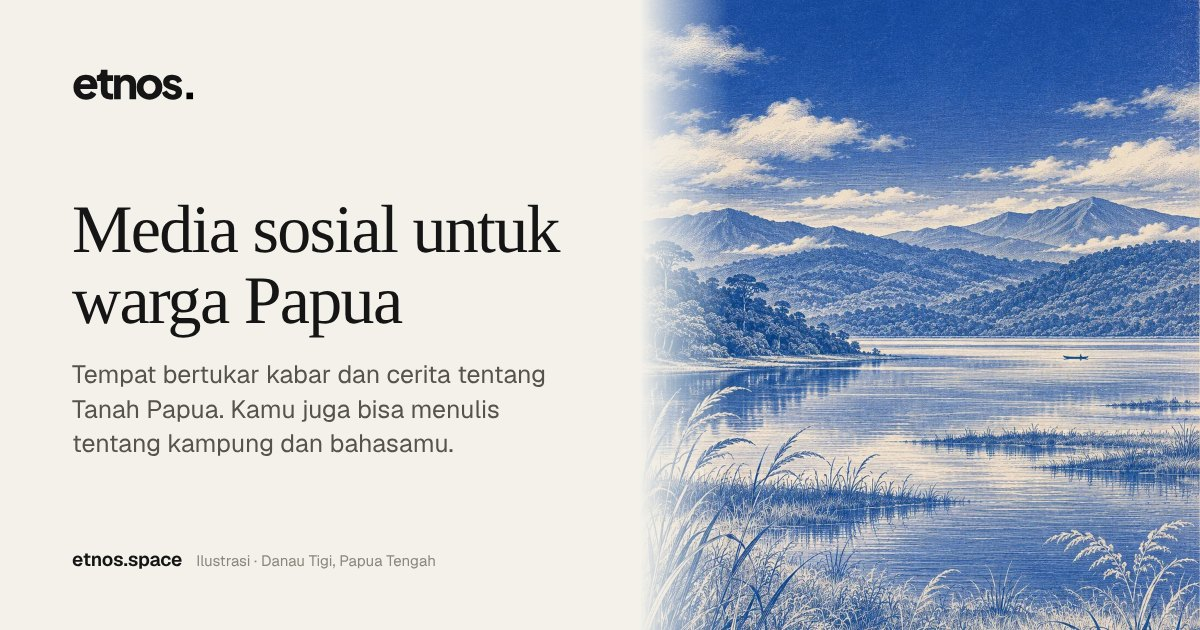
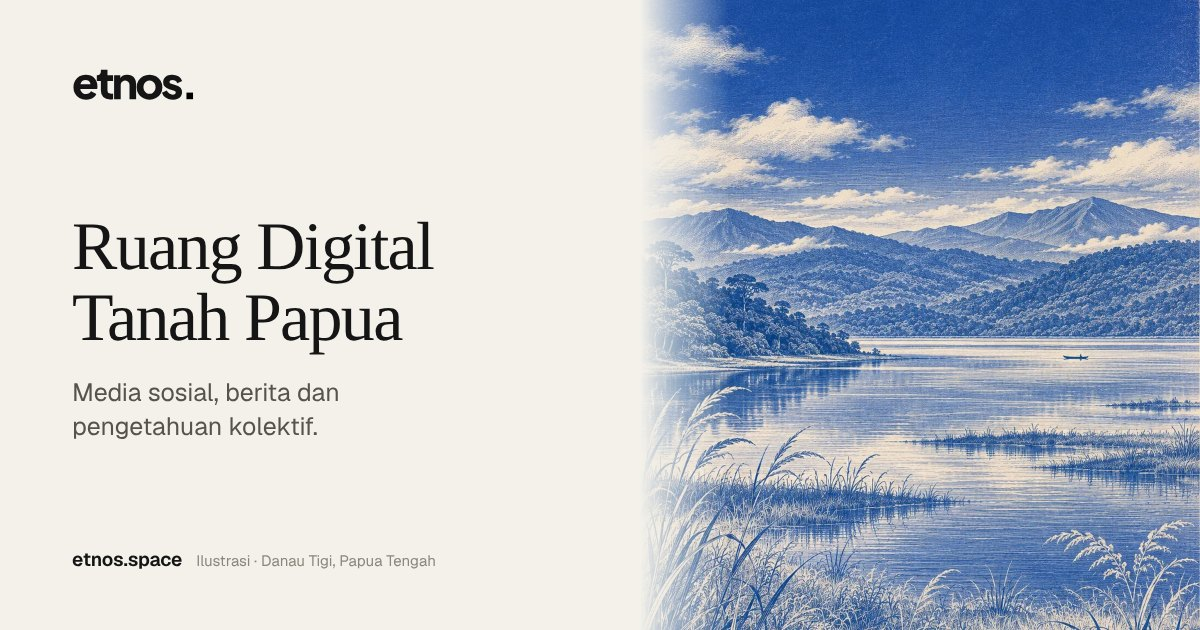
Home preview card: Ruang Digital Tanah Papua
Claude-Session: https://claude.ai/code/session_015shwuDdzuYH8FL2aSLKgWC

Changed region(s): [[0.0617, 0.3317, 0.4625, 0.7238]]

diff --git a/src/share.ts b/src/share.ts
@@ -1,12 +1,12 @@
 /** Public sharing projection. Callers provide anonymous, bounded reads only. */
 export type Share = {title:string;description:string;path:string;image:string;imageAlt:string;type:'website'|'article';index:boolean;article?:{title:string;text:string;citations:string[];updated:number;reviewed:boolean}}
-const description='Tempat bertukar kabar dan cerita tentang Tanah Papua. Kamu juga bisa menulis tentang kampung dan bahasamu.'
+const description='Media sosial, berita dan pengetahuan kolektif.'
 export const defaultShare=():Share=>({title:'ETNOS',description,path:'/',image:'/share/default.jpg',imageAlt:'ETNOS. '+description,type:'website',index:false})
 export function previewText(value:unknown,max=240){return String(value??'').replace(/!\[[^\]]*\]\([^)]*\)/g,' ').replace(/\[([^\]]+)\]\([^)]*\)/g,'$1').replace(/<[^>]*>/g,' ').replace(/[#*_`~>|]/g,'').replace(/[\u0000-\u001f\u007f]/g,' ').replace(/\s+/g,' ').trim().slice(0,max)}
 const uuid=/^[a-f0-9-]{36}$/
 type Read=(path:string)=>Promise<any>
 const pages:Record<string,[string,string]>={
- '/':['ETNOS · Media sosial untuk warga Papua',description],'/explore':['Jelajah ETNOS','Lihat apa yang sedang dibicarakan warga Papua hari ini.'],
+ '/':['ETNOS · Ruang Digital Tanah Papua',description],'/explore':['Jelajah ETNOS','Lihat apa yang sedang dibicarakan warga Papua hari ini.'],
  '/news':['Kabar · ETNOS','Kabar terbaru dari Papua beserta sumber aslinya.'],'/communities':['Komunitas · ETNOS','Cari komunitas yang cocok, lalu ikut berdiskusi.'],
  '/groups':['Organisasi · ETNOS','Ruang dan karya bersama dari organisasi.'],'/wiki':['Pengetahuan bersama · ETNOS','Halaman tentang Papua yang ditulis dan diperiksa bersama warga.'],
  '/voices':['Suara komunitas · ETNOS','Pertanyaan, jajak pendapat dan tindak lanjut komunitas.'],'/work':['Kerja publik · ETNOS','Karya, laporan dan tindak lanjut yang disponsori.'],'/board':['Lajur · ETNOS','Jelajahi percakapan dalam beberapa linimasa.'],

diff --git a/apps/web/index.html b/apps/web/index.html
@@ -9,7 +9,7 @@
     <meta name="theme-color" content="#080a10" />
     <meta
       name="description"
-      content="Tempat bertukar kabar dan cerita tentang Tanah Papua. Kamu juga bisa menulis tentang kampung dan bahasamu."
+      content="Media sosial, berita dan pengetahuan kolektif."
     />
     <script src="/assets/appearance-init.js"></script>
     <link rel="preload" href="./node_modules/@fontsource-variable/geist/files/geist-latin-wght-normal.woff2" as="font" type="font/woff2" crossorigin />
